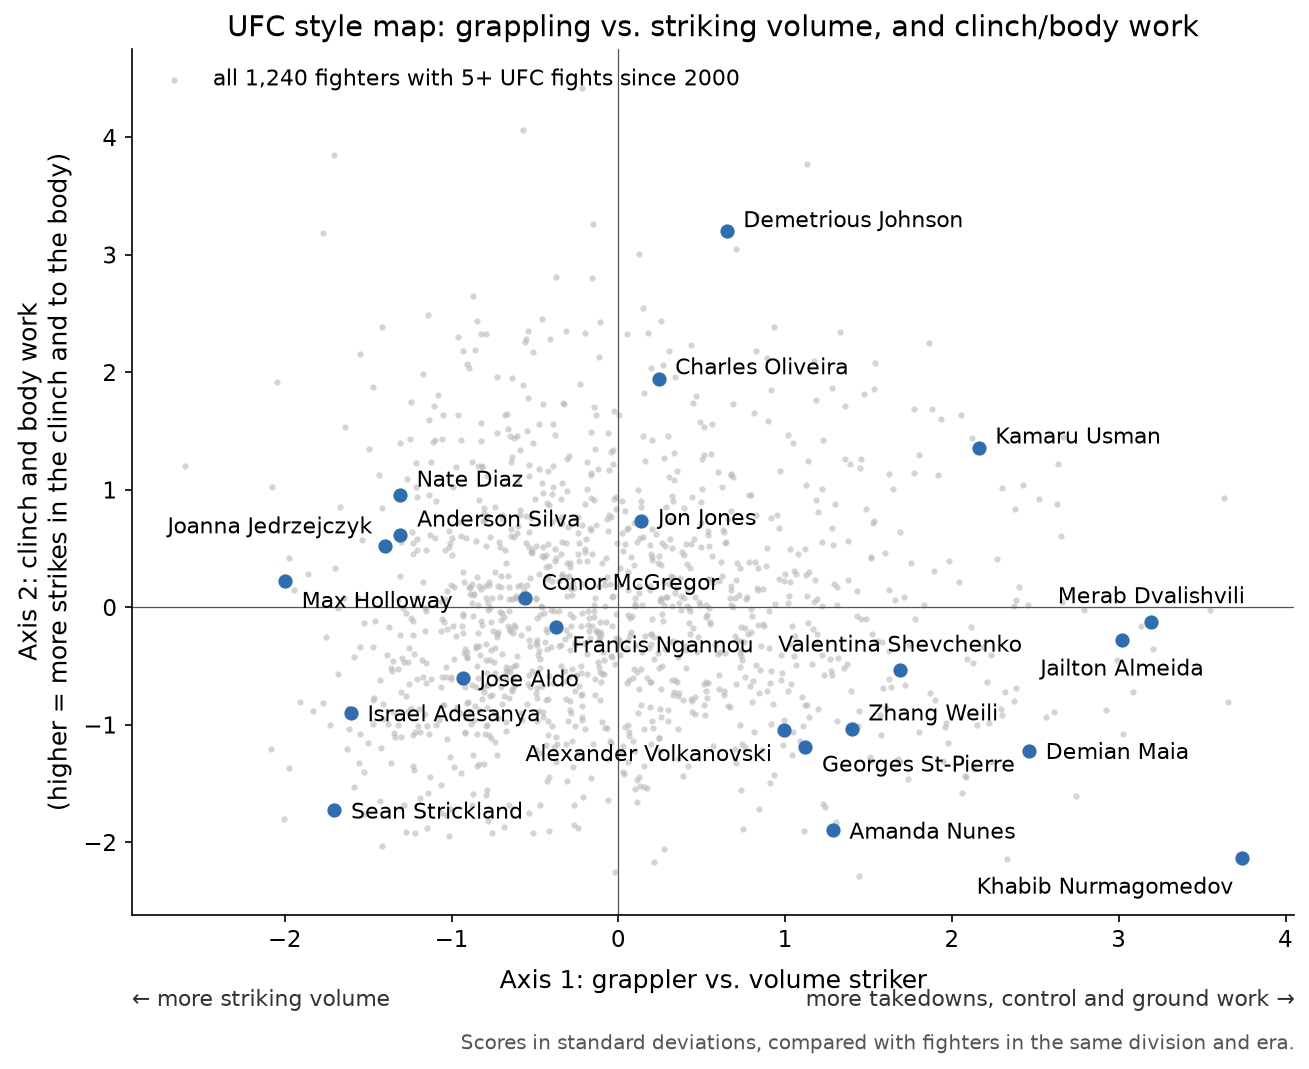
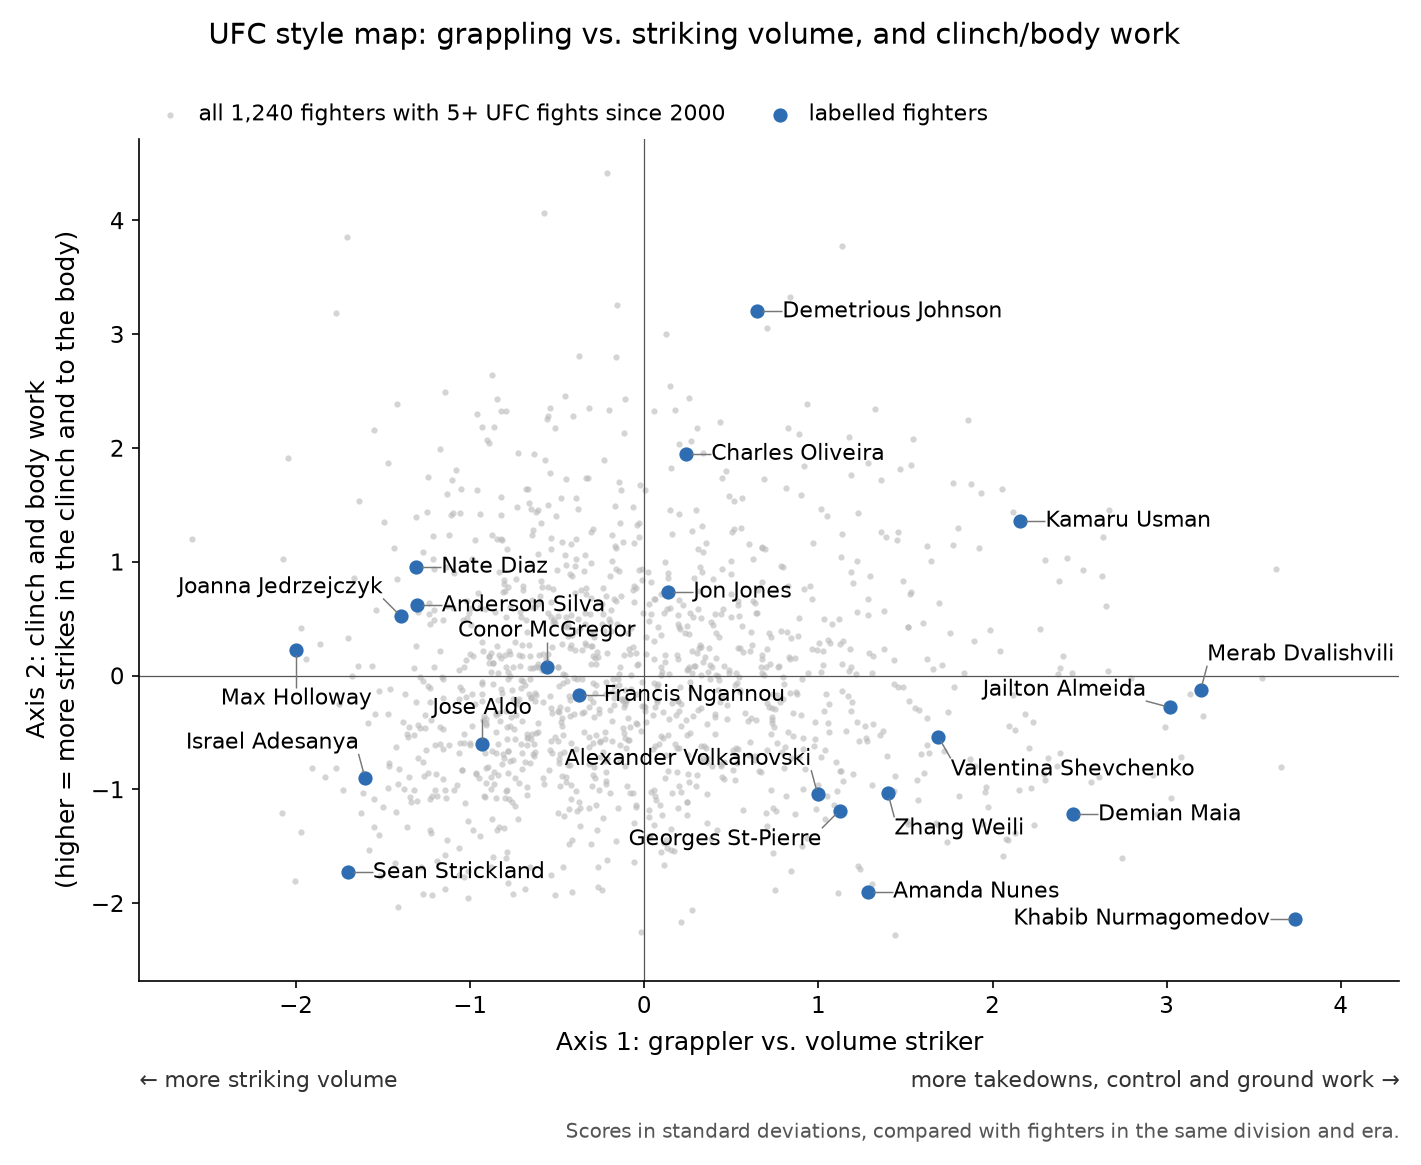
Fix style map labels: leader lines, unambiguous placement, margins
- place_labels(): automatic label placement in display coordinates;
  a position is accepted only if the label stays inside the axes,
  doesn't overlap another label or cover a labelled point, and is
  clearly nearer its own point than any other (15% margin); prefers
  spots off the zero lines when one is nearby
- thin leader line from every label to its point
- check_labels(): fails the build instead of saving a figure with
  overlapping, ambiguous or far-away labels
- axis-end descriptions placed below the measured axis title, with
  padding, so both are fully visible
- legend moved above the plot so it doesn't cross the zero lines

diff --git a/src/make_figures.py b/src/make_figures.py
@@ -33,17 +33,120 @@ plt.rcParams.update({
     "savefig.bbox": "tight", "savefig.facecolor": "white",
 })
 
-# Fighters labelled on the style map: label offset in points (dx, dy) and horizontal alignment, chosen so no labels overlap.
-STYLE_MAP_LABELS = {
-    "Khabib Nurmagomedov": (-4, -17, "right"), "Jailton Almeida": (0, -17, "center"), "Merab Dvalishvili": (0, 9, "center"),
-    "Demian Maia": (8, -4, "left"), "Georges St-Pierre": (8, -12, "left"), "Amanda Nunes": (8, -4, "left"),
-    "Kamaru Usman": (8, 2, "left"), "Valentina Shevchenko": (0, 9, "center"), "Zhang Weili": (8, 4, "left"),
-    "Alexander Volkanovski": (-6, -15, "right"), "Charles Oliveira": (8, 2, "left"), "Demetrious Johnson": (8, 2, "left"),
-    "Jon Jones": (8, -2, "left"), "Anderson Silva": (8, 4, "left"), "Nate Diaz": (8, 4, "left"),
-    "Joanna Jedrzejczyk": (-6, 6, "right"), "Conor McGregor": (8, 4, "left"), "Francis Ngannou": (8, -12, "left"),
-    "Jose Aldo": (8, -4, "left"), "Israel Adesanya": (8, -4, "left"), "Max Holloway": (8, -13, "left"),
-    "Sean Strickland": (8, -4, "left"),
-}
+# Fighters labelled on the style map. Label positions are chosen automatically by place_labels().
+STYLE_MAP_FIGHTERS = [
+    "Khabib Nurmagomedov", "Jailton Almeida", "Merab Dvalishvili", "Demian Maia", "Georges St-Pierre", "Amanda Nunes",
+    "Kamaru Usman", "Valentina Shevchenko", "Zhang Weili", "Alexander Volkanovski", "Charles Oliveira",
+    "Demetrious Johnson", "Jon Jones", "Anderson Silva", "Nate Diaz", "Joanna Jedrzejczyk", "Conor McGregor",
+    "Francis Ngannou", "Jose Aldo", "Israel Adesanya", "Max Holloway", "Sean Strickland",
+]
+LABEL_FONTSIZE = 10.5
+MARKER_RADIUS_PX = 6          # labelled-point marker radius used for collision checks (display pixels, incl. margin)
+NEAREST_MARGIN = 1.15         # a label's own point must be this much closer than any other labelled point
+
+
+def _rect_point_distance(b, x, y) -> float:
+    """Distance in display pixels from point (x, y) to bounding box b (0 if inside)."""
+    dx = max(b.x0 - x, 0, x - b.x1)
+    dy = max(b.y0 - y, 0, y - b.y1)
+    return float(np.hypot(dx, dy))
+
+
+def place_labels(ax, points: dict[str, tuple[float, float]], fontsize: float = LABEL_FONTSIZE) -> dict:
+    """Place one label per point with a thin leader line, avoiding ambiguity and overlaps.
+
+    For each label (most crowded points first), candidate positions are tried on rings around the point,
+    nearest first. A candidate is accepted only if the label box (a) stays inside the axes, (b) doesn't overlap
+    an already placed label, (c) doesn't cover any labelled point, and (d) is closer to its own point than to
+    any other labelled point by NEAREST_MARGIN. Raises if a label can't be placed, rather than drawing a bad figure.
+    Returns {name: (text, leader line)} for checks.
+    """
+    fig = ax.figure
+    fig.canvas.draw()
+    renderer = fig.canvas.get_renderer()
+    to_px = ax.transData.transform
+    px = {n: to_px(p) for n, p in points.items()}
+    axes_box = ax.get_window_extent(renderer)
+
+    def crowding(n):
+        return sum(np.hypot(*(px[n] - px[m])) < 120 for m in px if m != n)
+
+    zx, zy = to_px((0.0, 0.0))                            # zero lines, in display pixels
+
+    def crosses_zero(b):
+        return b.x0 < zx < b.x1 or b.y0 < zy < b.y1
+
+    placed, out = [], {}
+    for name in sorted(points, key=crowding, reverse=True):
+        x0, y0 = px[name]
+        best = None
+        # Pass 1: nearby positions that don't sit on a zero line. Pass 2: any valid position.
+        tries = [(r, True) for r in (12, 18, 26)] + [(r, False) for r in (12, 18, 26, 36, 48, 62)]
+        for radius, avoid_zero in tries:
+            for ang in np.deg2rad(np.arange(0, 360, 15)):
+                dx, dy = radius * np.cos(ang), radius * np.sin(ang)
+                ha = "left" if dx > 3 else "right" if dx < -3 else "center"
+                va = "bottom" if dy > 3 else "top" if dy < -3 else "center"
+                t = ax.annotate(name, points[name], xytext=(dx, dy), textcoords="offset points",
+                                ha=ha, va=va, fontsize=fontsize, zorder=5)
+                b = t.get_window_extent(renderer).expanded(1.04, 1.12)
+                t.remove()
+                if not (axes_box.x0 <= b.x0 and b.x1 <= axes_box.x1 and axes_box.y0 <= b.y0 and b.y1 <= axes_box.y1):
+                    continue
+                if any(b.overlaps(o) for o in placed):
+                    continue
+                if any(_rect_point_distance(b, *px[m]) < MARKER_RADIUS_PX for m in px):
+                    continue
+                own = _rect_point_distance(b, x0, y0)
+                other = min(_rect_point_distance(b, *px[m]) for m in px if m != name)
+                if other < NEAREST_MARGIN * own + 4:
+                    continue
+                if avoid_zero and crosses_zero(b):
+                    continue
+                best = (dx, dy, ha, va, b)            # offsets are in points, as drawn
+                break
+            if best:
+                break
+        if best is None:
+            raise RuntimeError(f"could not place label for {name} without ambiguity or overlap")
+        dxp, dyp, ha, va, b = best
+        t = ax.annotate(name, points[name], xytext=(dxp, dyp), textcoords="offset points", ha=ha, va=va,
+                        fontsize=fontsize, zorder=5)
+        placed.append(b)
+        out[name] = (t, _leader_line(ax, (x0, y0), t.get_window_extent(renderer)))
+    return out
+
+
+def _leader_line(ax, point_px, box, gap_px: float = 5.0):
+    """Thin line from just outside the point to the nearest edge of the label box (drawn in data coordinates)."""
+    x0, y0 = point_px
+    ex, ey = min(max(x0, box.x0), box.x1), min(max(y0, box.y0), box.y1)     # nearest point on the box
+    d = np.hypot(ex - x0, ey - y0)
+    if d <= gap_px:
+        return None
+    sx, sy = x0 + (ex - x0) * gap_px / d, y0 + (ey - y0) * gap_px / d
+    inv = ax.transData.inverted()
+    (ax_, ay_), (bx_, by_) = inv.transform([(sx, sy), (ex, ey)])
+    line, = ax.plot([ax_, bx_], [ay_, by_], color="#777777", lw=0.7, zorder=4, solid_capstyle="butt")
+    return line
+
+
+def check_labels(ax, labels: dict, points: dict) -> None:
+    """Assert the rendered labels are unambiguous: inside the axes, non-overlapping, nearest to their own point."""
+    ax.figure.canvas.draw()
+    renderer = ax.figure.canvas.get_renderer()
+    px = {n: ax.transData.transform(p) for n, p in points.items()}
+    boxes = {n: t.get_window_extent(renderer) for n, (t, _) in labels.items()}
+    for n, (_, line) in labels.items():
+        assert line is not None, f"label {n} has no leader line"
+    names = list(boxes)
+    for i, a in enumerate(names):
+        for b in names[i + 1:]:
+            assert not boxes[a].overlaps(boxes[b]), f"labels overlap: {a} / {b}"
+        own = _rect_point_distance(boxes[a], *px[a])
+        nearest = min(names, key=lambda m: _rect_point_distance(boxes[a], *px[m]))
+        assert nearest == a, f"label {a} is nearer to {nearest}'s point than its own"
+        assert own < 80, f"label {a} is far from its point ({own:.0f}px)"
 
 
 def style_map(path: Path) -> None:
@@ -51,26 +154,37 @@ def style_map(path: Path) -> None:
     model_path = A.MODEL_DIR / f"style_axes_m{A.CHOSEN_AXES}.joblib"
     axes = A.StyleAxes.load(model_path) if model_path.exists() else A.fit_style_axes(profiles, A.CHOSEN_AXES)
     s = axes.transform(profiles).set_index("fighter_name")
+    points = {n: (s.at[n, "axis_1"], s.at[n, "axis_2"]) for n in STYLE_MAP_FIGHTERS if n in s.index}
 
-    fig, ax = plt.subplots(figsize=(10, 7.5))
-    ax.scatter(s["axis_1"], s["axis_2"], s=9, color=GREY, alpha=0.6, lw=0, label=f"all {len(s):,} fighters with 5+ UFC fights since 2000")
-    for name, (dx, dy, ha) in STYLE_MAP_LABELS.items():
-        if name not in s.index:
-            continue
-        x, y = s.at[name, "axis_1"], s.at[name, "axis_2"]
-        ax.scatter([x], [y], s=34, color=BLUE, zorder=3)
-        ax.annotate(name, (x, y), xytext=(dx, dy), textcoords="offset points", fontsize=10.5, ha=ha, zorder=4)
-    ax.axhline(0, color="#555555", lw=0.6)
-    ax.axvline(0, color="#555555", lw=0.6)
-    ax.set_xlabel("Axis 1: grappler vs. volume striker", labelpad=8)
-    ax.text(0.0, -0.105, "← more striking volume", transform=ax.transAxes, ha="left", fontsize=10.5, color="#333333")
-    ax.text(1.0, -0.105, "more takedowns, control and ground work →", transform=ax.transAxes, ha="right", fontsize=10.5, color="#333333")
+    fig, ax = plt.subplots(figsize=(10, 7.8))
+    fig.subplots_adjust(left=0.13, right=0.97, top=0.885, bottom=0.165)
+    ax.scatter(s["axis_1"], s["axis_2"], s=9, color=GREY, alpha=0.6, lw=0,
+               label=f"all {len(s):,} fighters with 5+ UFC fights since 2000")
+    xy = np.array(list(points.values()))
+    ax.scatter(xy[:, 0], xy[:, 1], s=34, color=BLUE, zorder=3, label="labelled fighters")
+    ax.set_xlim(s["axis_1"].min() - 0.3, s["axis_1"].max() + 0.6)
+    ax.set_ylim(s["axis_2"].min() - 0.4, s["axis_2"].max() + 0.3)
+    ax.axhline(0, color="#555555", lw=0.6, zorder=1)
+    ax.axvline(0, color="#555555", lw=0.6, zorder=1)
     ax.set_ylabel("Axis 2: clinch and body work\n(higher = more strikes in the clinch and to the body)")
-    ax.set_title("UFC style map: grappling vs. striking volume, and clinch/body work")
-    ax.legend(loc="upper left", frameon=False, fontsize=10.5)
-    ax.text(1.0, -0.155, "Scores in standard deviations, compared with fighters in the same division and era.",
-            transform=ax.transAxes, ha="right", fontsize=9.5, color="#555555")
-    fig.savefig(path)
+    ax.set_xlabel("Axis 1: grappler vs. volume striker", labelpad=6)
+    # Axis-end descriptions on their own line just below the axis title (measured), then the footnote.
+    fig.canvas.draw()
+    to_fig = fig.transFigure.inverted()
+    label_bottom = to_fig.transform((0, ax.xaxis.label.get_window_extent().y0))[1]
+    pos = ax.get_position()
+    y_ends = label_bottom - 0.012
+    fig.text(pos.x0, y_ends, "← more striking volume", ha="left", va="top", fontsize=10.5, color="#333333")
+    fig.text(pos.x1, y_ends, "more takedowns, control and ground work →", ha="right", va="top", fontsize=10.5, color="#333333")
+    fig.text(pos.x1, y_ends - 0.045, "Scores in standard deviations, compared with fighters in the same division and era.",
+             ha="right", va="top", fontsize=9.5, color="#555555")
+    fig.suptitle("UFC style map: grappling vs. striking volume, and clinch/body work", fontsize=14, y=0.985)
+    # Legend above the plot area, so it can't cross the zero lines or cover points.
+    ax.legend(loc="lower left", bbox_to_anchor=(0, 1.005), ncol=2, frameon=False, fontsize=10.5,
+              handletextpad=0.3, columnspacing=1.5, borderaxespad=0)
+    labels = place_labels(ax, points)
+    check_labels(ax, labels, points)
+    fig.savefig(path, bbox_inches="tight", pad_inches=0.15)
     plt.close(fig)
 
 
